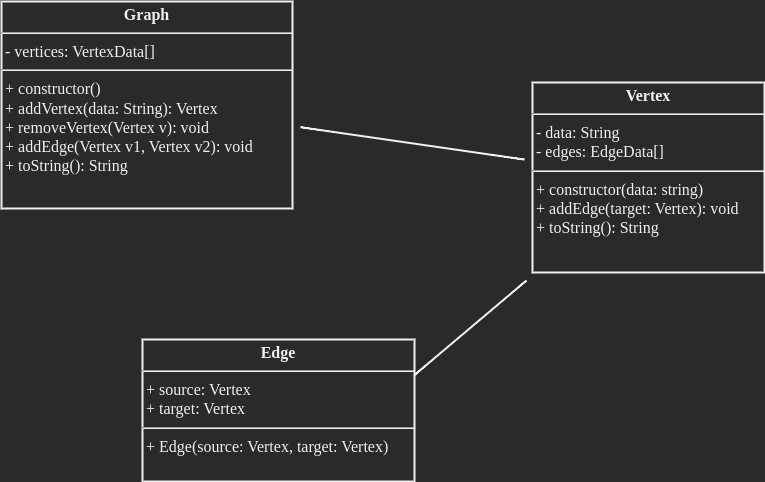
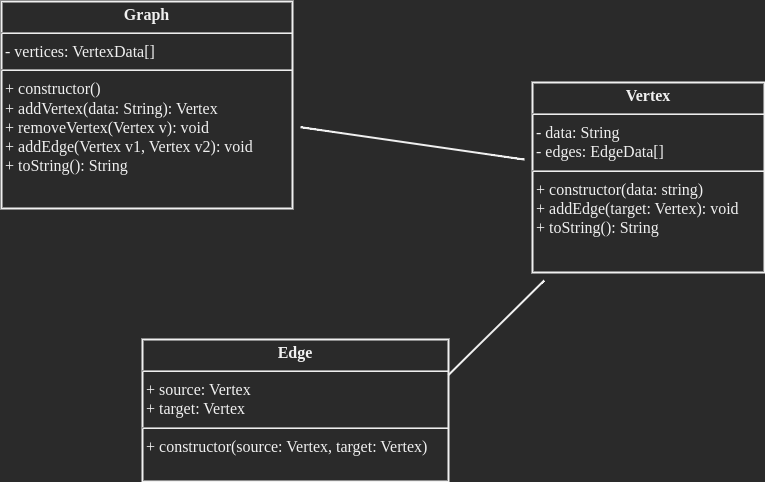
update

Changed region(s): [[0.2105, 0.5913, 0.7216, 1.0], [0.3307, 0.7158, 0.4209, 0.7469]]

diff --git a/concepts/typescript/graph.md b/concepts/typescript/graph.md
@@ -17,22 +17,36 @@ From wikipedia
 
 |             | Definition                             |
 |-------------|----------------------------------------|
-| size        | the number of (unique) elements in Set |
+| vertices    | all the vertices of graph              |
 
 **Methods**
 
-|                 | Definition                                                         |
-|-----------------|--------------------------------------------------------------------|
-| add             | Appends a new element with a specified value to the end of the Set.|
-| has             | a boolean indicating whether an element with the specified value exists in the Set or not. |
-| delete          |  Returns true if an element in the Set existed and has been removed, or false if the element does not exist. |
+|                 | Definition                                      |
+|-----------------|-------------------------------------------------|
+| addVertex       | Add the new vertex to the graph                 |
+| removeVertex    | Remove vertex from the graph                    |
+| addEdge         | Add the new edge to the graph                   |
 
-### Class Edge
+### Class Vertex
+
+**Properties**
+
+|             | Definition                             |
+|-------------|----------------------------------------|
+| data        | all the vertices of graph              |
+
+**Methods**
+
+|                 | Definition                                      |
+|-----------------|-------------------------------------------------|
+| addVertex       | Add the new vertex to the graph                 |
+| removeVertex    | Remove vertex from the graph                    |
+| addEdge         | Add the new edge to the graph                   |
 
 ### Class Vertex
 
 
-## 💻 Set Implementation in Typescript
+## 💻 Graph Implementation in Typescript
 
 Typescript has standard built-in object [`Set`](https://developer.mozilla.org/en-US/docs/Web/JavaScript/Reference/Global_Objects/Set)
 
